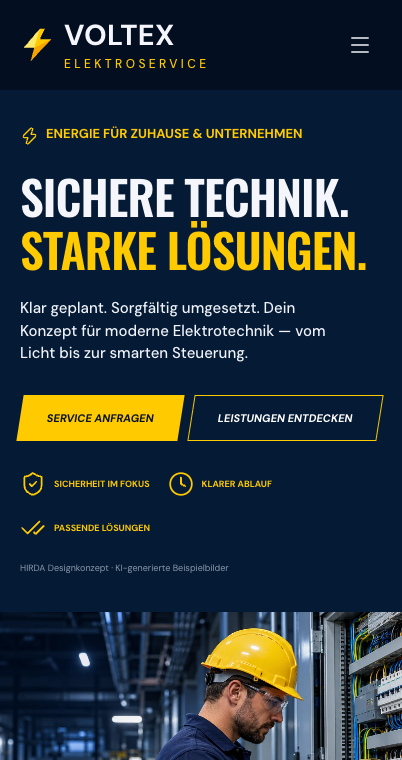
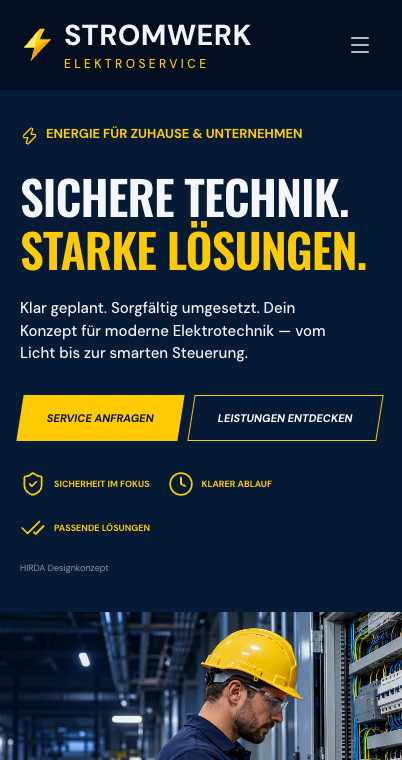
Rename Voltex to Stromwerk and expand electrical service copy

Changed region(s): [[0.1493, 0.0303, 0.6269, 0.0605], [0.2985, 0.7263, 0.5672, 0.7566]]

diff --git a/apps/electrical/src/data/site.ts b/apps/electrical/src/data/site.ts
@@ -1,7 +1,7 @@
 import type {TradeSite} from '../../../../packages/ui/trade-types';
 export const site = {
   "kind": "electrical",
-  "name": "VOLTEX",
+  "name": "STROMWERK",
   "tagline": "Elektroservice",
   "eyebrow": "Energie für Zuhause & Unternehmen",
   "headline": [
@@ -10,43 +10,43 @@ export const site = {
   ],
   "description": "Klar geplant. Sorgfältig umgesetzt. Dein Konzept für moderne Elektrotechnik — vom Licht bis zur smarten Steuerung.",
   "hero": "electrician.webp",
-  "heroAlt": "KI-Visualisierung: Elektriker prüft einen spannungsfreien Verteiler",
+  "heroAlt": "Elektriker prüft einen spannungsfreien Verteiler",
   "servicesTitle": "Komplette Lösungen für deine Elektrik",
-  "servicesIntro": "Eine klare Auswahl für unterschiedliche Anforderungen.",
+  "servicesIntro": "Vom einzelnen Anschluss bis zur Modernisierung: Entscheidend ist, was du heute brauchst und was morgen dazukommen könnte.",
   "services": [
     {
       "icon": "house",
       "title": "Installation & Leitungen",
-      "text": "Durchdachte Elektroinstallation für Neu- und Umbauten."
+      "text": "Neue Räume brauchen Anschlüsse an den richtigen Stellen. Licht, Steckdosen und Leitungswege werden gemeinsam mit der Nutzung geplant."
     },
     {
       "icon": "lightbulb",
       "title": "Licht & Beleuchtung",
-      "text": "Lichtkonzepte für drinnen und draußen."
+      "text": "Arbeitslicht in der Küche, angenehmes Licht im Wohnraum oder Orientierung im Außenbereich: Funktion und Atmosphäre gehören zusammen."
     },
     {
       "icon": "panel-left",
       "title": "Verteiler & Modernisierung",
-      "text": "Bestehende Anlagen gezielt weiterdenken."
+      "text": "Welche Geräte kommen hinzu? Was ist bereits vorhanden? Zustand, Platzbedarf und künftige Nutzung bilden die Grundlage der Modernisierung."
     },
     {
       "icon": "plug",
       "title": "Steckdosen & Schalter",
-      "text": "Praktische Anschlüsse dort, wo du sie brauchst."
+      "text": "Mehr Komfort ohne Verlängerungskabel: Positionen, Bedienung und vorhandene Installation vor einem Umbau gemeinsam prüfen."
     },
     {
       "icon": "zap",
       "title": "Schutz & Prüfung",
-      "text": "Sicherheit und Zustand fachlich beurteilen lassen."
+      "text": "Auffälligkeiten fachlich einordnen und den passenden Prüfumfang klären. Erst die Ursache verstehen, dann eine Maßnahme festlegen."
     },
     {
       "icon": "building-2",
       "title": "Gewerbe & Büro",
-      "text": "Technik passend zu deinen Arbeitsabläufen."
+      "text": "Arbeitsplätze, Beleuchtung und Technik auf den Betriebsablauf abstimmen. Mögliche Ausfallzeiten werden vor der Umsetzung besprochen."
     }
   ],
   "aboutTitle": "Technik verstehen. Gemeinsam weiterdenken.",
-  "aboutText": "Ob neue Beleuchtung, Modernisierung oder ein größeres Vorhaben: Gute Elektroplanung beginnt damit, deinen Bedarf zu verstehen. VOLTEX zeigt, wie ein zeitgemäßer Fachbetrieb Leistungen übersichtlich und persönlich präsentieren kann.",
+  "aboutText": "Gute Elektrotechnik fällt im Alltag oft kaum auf — bis etwas fehlt. Stromwerk verbindet verständliche Beratung mit einer Planung, die Räume, Geräte und Gewohnheiten berücksichtigt. Bestehende Anlagen werden zuerst beurteilt; Umfang, Material und nächste Schritte werden vor einer Umsetzung abgestimmt.",
   "aboutPoints": [
     "Zuhause & Gewerbe",
     "Bedarf zuerst klären",
@@ -74,28 +74,32 @@ export const site = {
     {
       "icon": "message-circle",
       "title": "Vorhaben beschreiben",
-      "text": "Was möchtest du installieren oder verändern?"
+      "text": "Raum, geplante Geräte und vorhandene Anlage beschreiben. Fotos können bei einer späteren persönlichen Abstimmung helfen."
     },
     {
       "icon": "scan-line",
       "title": "Bedarf klären",
-      "text": "Anlage, Umfang und Besonderheiten besprechen."
+      "text": "Vor Ort wären Zustand, Anschlussmöglichkeiten und gewünschte Nutzung zu prüfen. Nicht jede Anlage lässt sich gleich erweitern."
     },
     {
       "icon": "calendar-days",
       "title": "Umsetzung planen",
-      "text": "Leistungen und einen möglichen Termin abstimmen."
+      "text": "Ein nachvollziehbares Angebot bildet die Grundlage. Material, Arbeitsschritte und mögliche Unterbrechungen werden gemeinsam abgestimmt."
     },
     {
       "icon": "shield-check",
       "title": "Ergebnis prüfen",
-      "text": "Dokumentation und Übergabe passend zur Aufgabe."
+      "text": "Nach einer echten Ausführung gehören die erforderlichen Prüfungen und eine verständliche Einweisung zum vereinbarten Umfang."
     }
   ],
   "faq": [
     [
+      "Was hilft bei der Vorbereitung einer Anfrage?",
+      "Beschreibe den Raum, dein Vorhaben und vorhandene Geräte. Bei einem Umbau sind Pläne oder die gewünschte Position neuer Anschlüsse hilfreich. Arbeiten an der Anlage gehören in die Hände qualifizierter Fachkräfte."
+    ],
+    [
       "Gibt es einen echten Notdienst?",
-      "Nein. VOLTEX ist ein Demo-Konzept ohne Notdienst. Bei einer akuten Gefahr nutze die zuständigen örtlichen Notfallstellen."
+      "Nein. STROMWERK ist ein Demo-Konzept ohne Notdienst. Bei einer akuten Gefahr nutze die zuständigen örtlichen Notfallstellen."
     ],
     [
       "Ist das ein echter Betrieb?",
